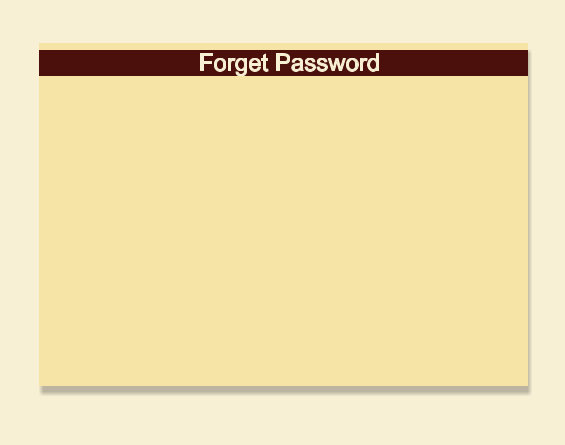
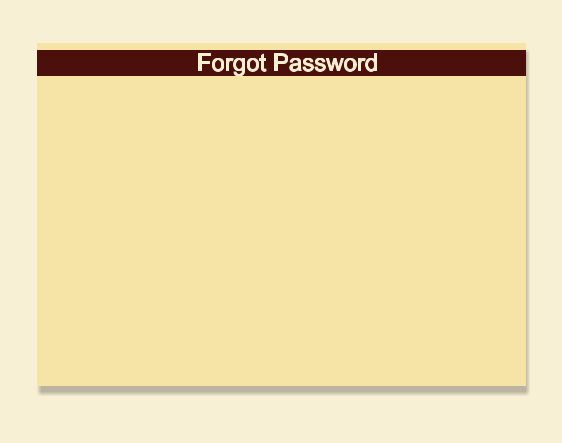
forgot password

Changed region(s): [[0.0605, 0.088, 0.9377, 0.8804], [0.3327, 0.1174, 0.6655, 0.1761], [0.9075, 0.1467, 0.9377, 0.1761]]

diff --git a/src/main/webapp/WEB-INF/pages/forgotPassword.html b/src/main/webapp/WEB-INF/pages/forgotPassword.html
@@ -57,24 +57,31 @@ form {
 
 <p style="color:red"><strong>{{error}}&nbsp;</strong></p>
 
-<div id="login">
+<div id="login"> <a id="xxx" >
 <div style="padding-left: 150px;">
 <img src="images/for.jpg" alt="images/for.jpg" />
-<form method="POST">
+<form method="POST" action="#xxx">
     <input type="hidden" name="from" value="forgotPassword"/>
     <input type="hidden" name="to" value="forgotPassword"/>
     <input type="hidden" name="email" value="{{email}}"/>
     <input type="hidden" name="key" value="{{key}}"/>
-
-    <p>
-        New Password: <input type="password" name="new" size="45">
-        <br/>
-        Confirm New Password: <input type="password" name="confirm" size="37">
-    </p>
-    
-<input type="image" src="images/sum.jpg" name="submit" value="submit"/>
+    <table>
+    <tr>
+    <td colspan="2">
+    <p>New Password:</p></td> 
+      <td><input type="password" name="new" size="45"></td> </tr>
+       <tr>
+       <td colspan="2">
+       <p>Confirm New Password:</p></td>
+      <td> <input type="password" name="confirm" size="37"></td></tr>
+    <tr>
+    <td colspan="2">
+   <p>{{success}}&nbsp;</p></td> </tr> 
+<tr>
+<td colspan="2">
+<input type="image" src="images/sum.jpg" name="submit" value="submit"/></td> </tr>
+</table>
 </form>
-<p>{{success}}&nbsp;</p>
 </div>
 </div>
 </div><!--end content-->
